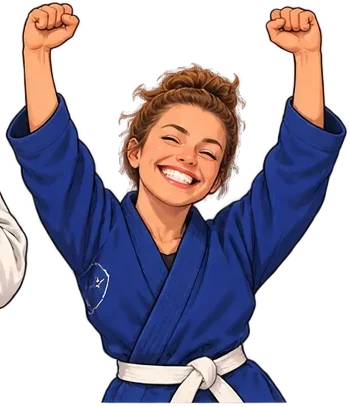
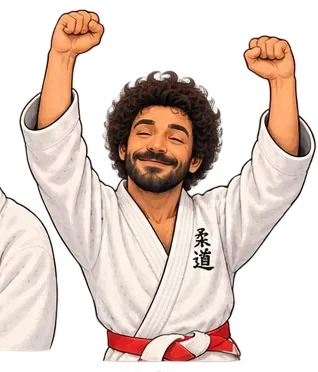
Adotta il nuovo set di illustrazioni e accende Maurizio di partenza
Diciotto illustrazioni nuove, separate dal foglio con lo stesso metodo
dei profili di proiezione: sei per fascia, nessun frammento e nessun
soggetto spezzato. Sostituiscono le tredici precedenti, che restano nella
storia dei commit: erano un altro personaggio, mentre queste sono
Maurizio e portano frasi che calzano all'app, «ottimo lavoro» e «meno
pause per tutti».

Il set copre più momenti di prima, quindi non restano illustrazioni
inutilizzate: cinque per quando perde il conto, cinque per la fine, e le
altre sugli stati fermi — preparazione, recupero, riposo fra le serie,
defaticamento.

Quelle degli stati fermi sono piccole e in un angolo, non al centro come
la gag: il lavoro non ne ha nessuna di proposito, perché durante lo
sforzo lo schermo deve dire solo il tempo. La posizione cambia con
l'orientamento, ed è stata scelta misurando cosa copriva: in verticale
in alto a destra, nello spazio morto accanto all'anello, perché in basso
copriva la riga «prossimo»; in orizzontale nella fascia vuota sotto
l'anello, perché l'angolo in alto a destra è occupato dall'intestazione.

Modalità Maurizio e voce incisa sono ora attive di partenza: sono la voce
e il carattere della palestra, non un extra da scoprire nelle
impostazioni. Il livello di partenza è «classico».

Claude-Session: https://claude.ai/code/session_01JooCXtaGijCA4t1W81KEnw

diff --git a/src/styles.css b/src/styles.css
@@ -243,6 +243,18 @@ input { font: inherit; color: inherit; }
   text-shadow: 0 2px 12px #000000cc;
 }
 
+/* Gli stati tranquilli: piccola e in un angolo, non deve rubare la scena ai
+   numeri né competere con l'illustrazione centrale di Maurizio. */
+.adesivo-stato {
+  /* In alto a destra: è lo spazio morto accanto all'anello. In basso
+     coprirebbe la riga «prossimo», che è informazione. */
+  position: absolute; right: 4px; top: 88px; z-index: 3;
+  height: 15vh; max-height: 118px; width: auto; pointer-events: none;
+  opacity: 0.92;
+  filter: drop-shadow(0 4px 14px #000000aa);
+  animation: entra 260ms ease-out;
+}
+
 .adesivo-finale {
   height: 34vh; max-height: 300px; width: auto;
   animation: entra 320ms ease-out;
@@ -254,11 +266,27 @@ input { font: inherit; color: inherit; }
 }
 
 @media (prefers-reduced-motion: reduce) {
-  .beccato, .adesivo-finale { animation: none; }
+  .beccato, /* Gli stati tranquilli: piccola e in un angolo, non deve rubare la scena ai
+   numeri né competere con l'illustrazione centrale di Maurizio. */
+.adesivo-stato {
+  /* In alto a destra: è lo spazio morto accanto all'anello. In basso
+     coprirebbe la riga «prossimo», che è informazione. */
+  position: absolute; right: 4px; top: 88px; z-index: 3;
+  height: 15vh; max-height: 118px; width: auto; pointer-events: none;
+  opacity: 0.92;
+  filter: drop-shadow(0 4px 14px #000000aa);
+  animation: entra 260ms ease-out;
+}
+
+.adesivo-finale { animation: none; }
 }
 
 @media (min-width: 900px) and (orientation: landscape) {
   .beccato { flex-direction: row; gap: 36px; }
   .beccato > img { height: 46vh; max-height: 420px; }
+  /* In orizzontale l'angolo in alto a destra è occupato dall'intestazione, e
+     più in basso c'è la riga «prossimo». Resta la fascia vuota sotto
+     l'anello. */
+  .adesivo-stato { left: 24px; right: auto; top: auto; bottom: 196px; height: 16vh; max-height: 130px; }
   .beccato-frase { max-width: 40%; text-align: left; }
 }

diff --git a/src/lib/adesivi.ts b/src/lib/adesivi.ts
@@ -1,18 +1,35 @@
+import type { SegmentKind } from '../types'
+
 /**
- * Le illustrazioni che accompagnano la modalità Maurizio.
+ * Le illustrazioni di Maurizio.
  *
  * Non sono precaricate con l'app: restano fuori dalla precache e si scaricano
  * la prima volta che servono, così chi non usa la modalità non se le porta
  * dietro. Da quel momento restano in cache e funzionano anche offline.
  */
-const DIR = 'adesivi'
+const url = (nome: string) => `adesivi/${nome}.webp`
 
-const url = (nome: string) => `${DIR}/${nome}.webp`
-
-/** Quando lo becchi a sbagliare il conto. */
-export const BECCATO = ['pollice-su', 'cronometro-130', 'cronometro-300', 'piegamenti'].map(url)
+/** Quando lo becchi a sbagliare il conto: al centro, con la frase. */
+export const BECCATO = ['meno-pause', 'cronometro', 'indica', 'idea', 'carponi'].map(url)
 
 /** A fine allenamento. */
-export const FINALE = ['good-work', 'esultanza', 'pugno', 'coppia-vittoria', 'jiu-jitsu-life'].map(url)
+export const FINALE = ['ottimo-lavoro', 'esultanza', 'maurizio-innella', 'inchino', 'borsa'].map(url)
+
+/**
+ * Gli stati tranquilli: piccole, in un angolo. Il lavoro non ne ha, di
+ * proposito — durante lo sforzo lo schermo deve dire solo il tempo.
+ */
+const PER_STATO: Partial<Record<SegmentKind, string[]>> = {
+  prepare: ['meditazione', 'scrivania'],
+  rest: ['borraccia', 'pollice-su', 'shaka', 'cuore'],
+  setRest: ['dorme', 'braccia-conserte', 'cuore'],
+  cooldown: ['meditazione', 'dorme'],
+}
 
 export const a_caso = (lista: string[]) => lista[Math.floor(Math.random() * lista.length)]
+
+/** L'illustrazione dello stato, o null se quello stato non ne prevede. */
+export function perStato(kind: SegmentKind | undefined): string | null {
+  const lista = kind ? PER_STATO[kind] : undefined
+  return lista ? url(a_caso(lista)) : null
+}

diff --git a/src/components/TimerScreen.tsx b/src/components/TimerScreen.tsx
@@ -1,7 +1,7 @@
 import { useEffect, useMemo, useRef, useState } from 'react'
 import type { Settings, Workout } from '../types'
 import { applyCoach, buildSegments } from '../lib/engine'
-import { BECCATO, FINALE, a_caso } from '../lib/adesivi'
+import { BECCATO, FINALE, a_caso, perStato } from '../lib/adesivi'
 import { clock } from '../lib/format'
 import { useTimer } from '../lib/useTimer'
 import { useWakeLock } from '../lib/wakeLock'
@@ -92,6 +92,14 @@ export function TimerScreen({
   useEffect(() => () => window.clearTimeout(timeoutBeccato.current), [])
 
   const seg = view.segment
+
+  // Estratta una volta per segmento: cambiarla a ogni render la farebbe
+  // lampeggiare, e durante il lavoro non ce n'è, di proposito.
+  const chiaveSegmento = seg ? `${seg.kind}-${seg.offset}` : ''
+  const [statoFermo, setStatoFermo] = useState<{ chiave: string; src: string | null }>({ chiave: '', src: null })
+  useEffect(() => {
+    setStatoFermo((prec) => (prec.chiave === chiaveSegmento ? prec : { chiave: chiaveSegmento, src: perStato(seg?.kind) }))
+  }, [chiaveSegmento, seg?.kind])
 
   const startOrToggle = () => {
     if (view.status === 'idle' || view.status === 'done') setRun((n) => n + 1)
@@ -244,6 +252,10 @@ export function TimerScreen({
           </>
         )}
       </div>
+
+      {statoFermo.src && !done && !beccato && view.status !== 'idle' && (
+        <img className="adesivo-stato" src={statoFermo.src} alt="" />
+      )}
 
       {beccato && !done && (
         <div className="beccato">

diff --git a/src/lib/storage.ts b/src/lib/storage.ts
@@ -6,7 +6,9 @@ const KEY_SETTINGS = 'ods-timer:settings'
 const KEY_HISTORY = 'ods-timer:history'
 
 export const DEFAULT_SETTINGS: Settings = {
-  coach: 'off',
+  // Maurizio è acceso di partenza, al livello di tutti i giorni: è la voce e il
+  // carattere della palestra, non un extra da scoprire nelle impostazioni.
+  coach: 'classico',
   countdownBeep: true,
   voice: true,
   vibrate: true,

diff --git a/README.md b/README.md
@@ -39,8 +39,8 @@ I timer, le impostazioni e lo storico stanno nel browser del dispositivo
 ## Modalità Maurizio
 
 Come l'allenatore che «perde il conto» per farti lavorare qualche secondo in
-più. Spenta di default, con tre livelli: **distratto**, **classico**,
-**spietato**.
+più. **Attiva di partenza** al livello *classico*; gli altri due sono
+**distratto** e **spietato**, e da Impostazioni si può spegnere.
 
 All'avvio, per ogni intervallo di lavoro, si genera la **sequenza completa dei
 numeri da mostrare**, un elemento per secondo. Le esitazioni cadono in punti a
